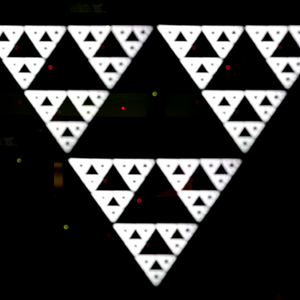
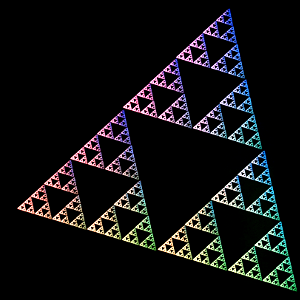
update tdot

diff --git a/tdot/sierpinski.html b/tdot/sierpinski.html
@@ -1,0 +1,157 @@
+
+<!DOCTYPE html>
+<html>
+
+<head>
+<title>Live Code with CodeMirror</title>
+<meta charset="UTF-8">
+
+<script src="lib/codemirror.js"></script>
+<script src="mode/clike/clike.js"></script>
+<script src="addon/edit/matchbrackets.js"></script>
+<script src="addon/edit/closebrackets.js"></script>
+<link rel="stylesheet" href="lib/codemirror.css">
+<link rel="stylesheet" href="theme/base16-dark.css">
+
+
+<script type="text/javascript" src="Cindy.js"></script>
+<script type="text/javascript" src="CindyGL.js"></script>
+
+<style type="text/css">
+  #outer { width: 800px; height: 600px; }
+  #code {position: absolute;
+    left: 10px;
+    top: 10px;
+    z-index: 100;
+  }
+  #applet { width: 100%; height: 100%; }
+  #CSCanvas { width: 100%; height: 100%; }
+  .CodeMirror {
+    background: rgba(0,0,0,.5) !important;
+    height: auto;
+  }
+</style>
+</head>
+
+<script id="csinit" type="text/x-cindyscript">
+camera = camera video();
+calibrate = true;
+M = [[1,0,0],[0,1,0],[0,0,1]];
+plotcmd() := ();
+hidden = false;
+</script>
+
+<script id="cskeydown" type="text/x-cindyscript">
+  print("pressed key" + keycode());
+  if(keycode()==67, hidden = !hidden; javascript("document.getElementById('code').hidden = " + hidden));
+  
+  if(keycode()==77,
+  calibrate = !calibrate;
+  ); //M -> toggle calibration
+  
+</script>
+
+<script id="csdraw" type="text/x-cindyscript">
+forall([M11, M21, M31, M41, M12, M22, M32, M42], #.visible = calibrate);
+if(calibrate,
+    
+    colorplot(imagergb(camera,#));
+    drawtext((0,0), "Press M to finish calibration.", color->red(1));
+  ,
+  if (image ready(camera),
+    plotcmd();
+  );
+);
+</script>
+
+<script id="plotcmd" type="text/x-cindyscript">M = map(M11, M21, M31, M41, M12, M22, M32, M42);
+
+screen(z) := M*[re(z), im(z),1];
+colorplot(
+  z = complex(#);
+  
+  rot = exp(i*seconds()/30);
+  //rot = complex(mouse());
+  phi = exp(2*pi*i/3);
+  4/3*(
+    imagergb(camera, screen(2*z + rot)) +
+    imagergb(camera, screen(2*z + rot*phi)) +
+    imagergb(camera, screen(2*z + rot*phi^2))
+  ) - .2*hue(arctan2(#)/2/pi)
+);
+</script>
+
+<body>
+  <div id="outer">
+    <div id="applet">
+      <div id="code"></div>
+      <div id="CSCanvas"></div>
+    </div>
+  </div>
+
+  <button id="fs">Fullscreen</button>
+  <script type="text/javascript">
+
+var cdy = CindyJS({
+  ports: [{
+    id: "CSCanvas",
+    transform: [ { visibleRect: [-2.1, -1.1, 2.1, 1.1] } ],
+    background: "rgb(0,0,0)"
+  }],
+  scripts: "cs*",
+  autoplay: true,
+  use: ["CindyGL"],
+  language: "en",
+  geometry: [
+    
+    { name: "M11", type: "Free", pos: [-1, -1], color: [1,1,1], size: 10},
+    { name: "M12", type: "Free", pos: [-1+.1, -1+.1], color: [1,1,1]},
+    
+    { name: "M21", type: "Free", pos: [1, -1], color: [0,1,1], size: 10 },
+    { name: "M22", type: "Free", pos: [1-.1, -1+.1], color: [0,1,1]},
+    
+    { name: "M31", type: "Free", pos: [-1, 1], color: [1,0,1], size: 10},
+    { name: "M32", type: "Free", pos: [-1+.1, 1-.1], color: [1,0,1]},
+    
+    { name: "M41", type: "Free", pos: [1, 1], color: [1,1,0], size: 10},
+    { name: "M42", type: "Free", pos: [1-.1, 1-.1], color: [1,1,0]}
+    
+  ]
+});
+
+var btn = document.getElementById("fs");
+var div = document.getElementById("applet");
+btn.onclick = function() {
+  (div.requestFullscreen ||
+   div.webkitRequestFullscreen ||
+   div.mozRequestFullScreen ||
+   div.msRequestFullscreen ||
+   function(){}).call(div);
+};
+
+var myCodeMirror = CodeMirror(document.getElementById("code"), {
+  value: document.getElementById('plotcmd').text,
+  autoCloseBrackets: true,
+  matchBrackets: true,
+  theme: "base16-dark"
+});
+
+myCodeMirror.on("change", function(cm, change) {
+  cdy.evokeCS(`
+    plotcmd() := (
+      ${cm.getValue()}
+    )
+    `);
+});
+window.setTimeout(function () {
+  cdy.evokeCS(`
+    plotcmd() := (
+      ${document.getElementById('plotcmd').text}
+    )
+  `);
+}, 1000);
+
+
+  </script>
+</body>
+</html>

diff --git a/tdot/index.html b/tdot/index.html
@@ -41,7 +41,8 @@ img:hover {
   <div class="showcase">
   <div><a href="julia.html"><img src="julia.png">Julia</a></div>
   <div><a href="barnsley.html"><img src="barnsley.png">Barnsleys farn</a></div>
-  <div><a href="identity.html"><img src="sierpinski.png">The identety</a></div>
+  <div><a href="sierpinski.html"><img src="sierpinski.png">Sierpinski triangle</a></div>
+  <div><a href="identity.html"><img src="identity.png">The identity</a></div>
   <div><a href="apollian.html"><img src="apollian.png">Apollian gasket</a></div>
   <div><a href="newton.html"><img src="newton.png">Newton Iteration</a></div>
   <div><a href="hyperbolic.html"><img src="hyperbolic.png">Hyperbolic</a></div>
